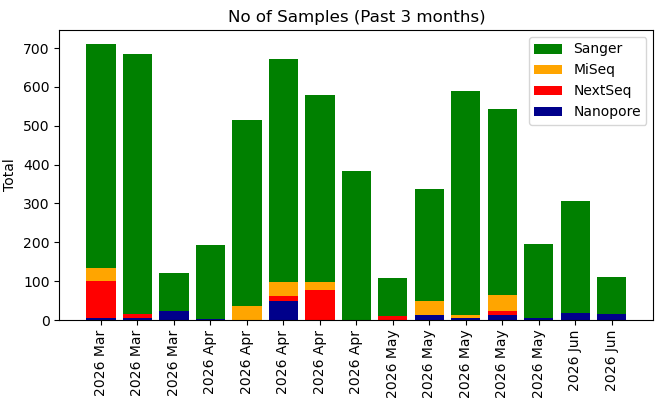
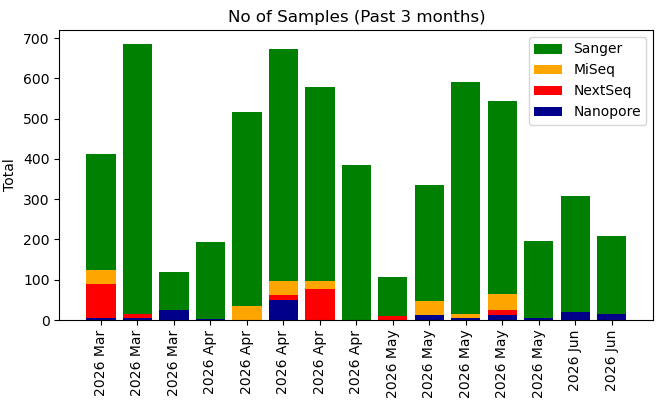
Your commit message here

diff --git a/krona/cgs.html b/krona/cgs.html
@@ -52,8 +52,8 @@ body {
   flex-direction: column;
 }
 </style>
-<H1>Genomics Facility Status: 07:00:07, 10/06/2026</H1>
-<marquee behavior="scroll" scrollamount="20" direction="left" bgcolor="lightgrey">CCGTCTTTCTCCATTGCGTCGTGGCCTTGCTATTGACTCTACTGTAGACATTTTTCCTTTTTATGTCCCTCATCGTCACGTTTATGGTGAACAGTGGATTAAGTTCATGAAGGATGGTGTTAATGCCACTCCTCTCCCGACTGTTAACACTACTGGTTATATTGACCATGCCGCTTTTCTTGGCACGATTAACCCTGATACCAATAAAATCCCTAAGCATTTGTTTCAGGGTTATTTGAATATCTATAAC</marquee>
+<H1>Genomics Facility Status: 07:00:16, 11/06/2026</H1>
+<marquee behavior="scroll" scrollamount="20" direction="left" bgcolor="lightgrey">AGAGTTTGATCCTGGCTCAGAATGAACGCTGGCGGCATGCTTAACACATGCAAGTCGAGCGGCATTATGAGGAAGGAAGAGGTGGAAGGCTGACGAAGGAGTGGGGAATCAGCCGTATACAACCGGATAGATACCGGGAAATAGCACTAATAAAGGATGATTTACTACCGCTGGAAGGTTTAATCAGCATGGGATGTGAGCTAAATGTTCGAGGCATCGGATCGGTATGCTTCCTGTTAGTTAGTTGGCGG</marquee>
 <TABLE BORDER=0><TR><TD><TABLE class="styled-table"><H3>GigaBases Sequenced</H3>
-<TR><TD><b>Platform</b></TD><TD><b>Week</b></TD><TD><b>Month</b></TD><TD><b>Year</b></TD><TD><b>Total</b></TD></TR><TR><TD>Illumina MiSeq</TD><TD>0.0</TD><TD>16.38</TD><TD>347.97</TD><TD>567.8</TD></TR><TR><TD>Illumina NextSeq</TD><TD>0.0</TD><TD>7.41</TD><TD>3868.75</TD><TD>6653.75</TD></TR><TR><TD>Nanopore PromethION</TD><TD>224.45</TD><TD>1100.44</TD><TD>8321.25</TD><TD>13265.45</TD></TR><TR><TD>Sanger</TD><TD>0.0</TD><TD>0.0</TD><TD>0.02</TD><TD>0.05</TD></TR></TABLE></TD><TD><IMG SRC="fig1.png"><IMG SRC="fig2.png"></TD></TR><TR><TD><H3>No. Samples (No. Experiments)</H3>
-<TABLE class="styled-table"><TR><TD><b>Platform</b></TD><TD><b>Week</b></TD><TD><b>Month</b></TD><TD><b>Year</b></TD><TD><b>Total</b></TD></TR><TR><TD>Illumina MiSeq</TD><TD>0 (0)</TD><TD>84 (3)</TD><TD>1395 (70)</TD><TD>2514 (101)</TD></TR><TR><TD>Illumina NextSeq</TD><TD>0 (0)</TD><TD>12 (2)</TD><TD>1244 (59)</TD><TD>2198 (89)</TD></TR><TR><TD>Nanopore PromethION</TD><TD>34 (13)</TD><TD>64 (29)</TD><TD>630 (211)</TD><TD>1058 (373)</TD></TR><TR><TD>Sanger</TD><TD>288 (288)</TD><TD>1632 (1632)</TD><TD>21019 (21019)</TD><TD>46242 (46242)</TD></TR></TABLE></TD><TD><IMG SRC="fig4.png"></TD></TR></TABLE></HTML>
+<TR><TD><b>Platform</b></TD><TD><b>Week</b></TD><TD><b>Month</b></TD><TD><b>Year</b></TD><TD><b>Total</b></TD></TR><TR><TD>Illumina MiSeq</TD><TD>0.0</TD><TD>8.67</TD><TD>347.97</TD><TD>567.8</TD></TR><TR><TD>Illumina NextSeq</TD><TD>0.0</TD><TD>7.41</TD><TD>3868.75</TD><TD>6653.75</TD></TR><TR><TD>Nanopore PromethION</TD><TD>225.21</TD><TD>1054.25</TD><TD>8326.38</TD><TD>13270.58</TD></TR><TR><TD>Sanger</TD><TD>0.0</TD><TD>0.0</TD><TD>0.02</TD><TD>0.05</TD></TR></TABLE></TD><TD><IMG SRC="fig1.png"><IMG SRC="fig2.png"></TD></TR><TR><TD><H3>No. Samples (No. Experiments)</H3>
+<TABLE class="styled-table"><TR><TD><b>Platform</b></TD><TD><b>Week</b></TD><TD><b>Month</b></TD><TD><b>Year</b></TD><TD><b>Total</b></TD></TR><TR><TD>Illumina MiSeq</TD><TD>0 (0)</TD><TD>48 (2)</TD><TD>1395 (70)</TD><TD>2514 (101)</TD></TR><TR><TD>Illumina NextSeq</TD><TD>0 (0)</TD><TD>12 (2)</TD><TD>1244 (59)</TD><TD>2198 (89)</TD></TR><TR><TD>Nanopore PromethION</TD><TD>34 (13)</TD><TD>57 (29)</TD><TD>631 (212)</TD><TD>1059 (374)</TD></TR><TR><TD>Sanger</TD><TD>384 (384)</TD><TD>1728 (1728)</TD><TD>21019 (21019)</TD><TD>46338 (46338)</TD></TR></TABLE></TD><TD><IMG SRC="fig4.png"></TD></TR></TABLE></HTML>
